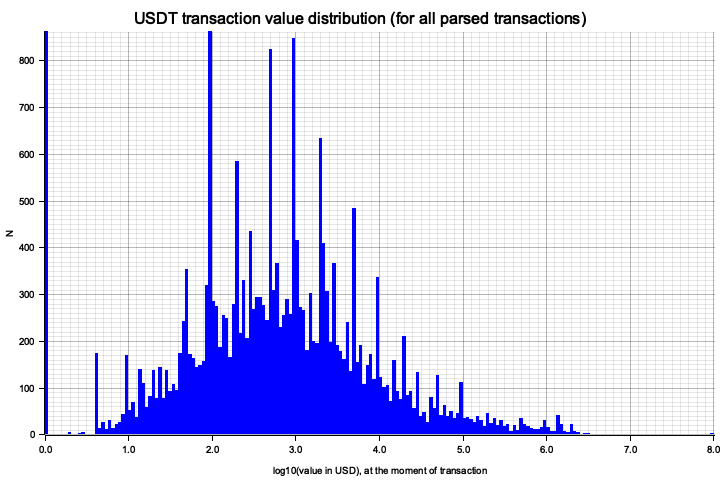
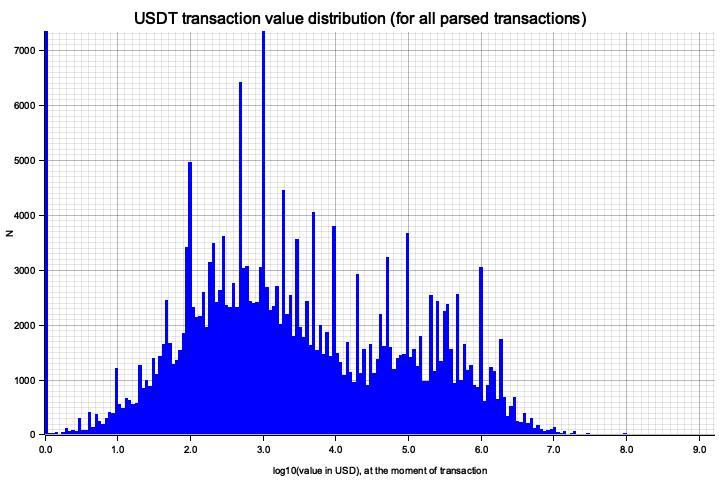
Experiment results

diff --git a/src/main.rs b/src/main.rs
@@ -70,7 +70,7 @@ struct SerializableGraph {
 type G = Graph<String, SimplifiedTransaction, Directed>;
 
 const TRAVERSAL_STARTING_ADDRESS: &str = "0x21a31ee1afc51d94c2efccaa2092ad1028285549"; // Binance affiliated address
-const MAX_TRANSACTIONS_TO_PARSE: usize = 100_000; // Limit of transactions near which parsing will be stopped.
+const MAX_TRANSACTIONS_TO_PARSE: usize = 10_000_000; // Limit of transactions near which parsing will be stopped.
 const TRANSACTIONS_TO_REQUEST_FROM_EACH_ADDRESS: usize = 10_000; // Limit of transactions to request (from and to) one particular address, <= 10000
 const DATA_STORAGE_FOLDER: &str = "json";
 
